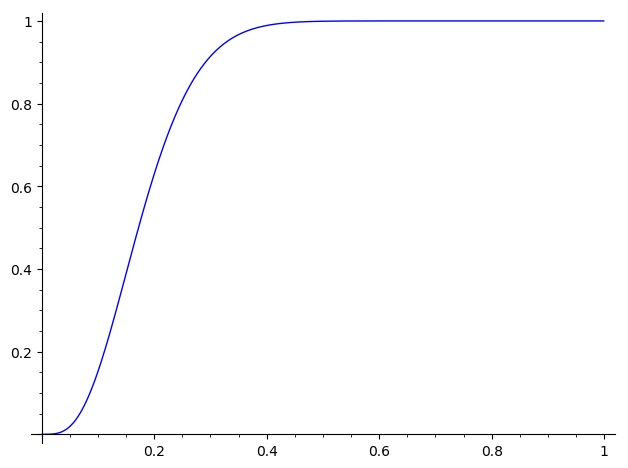
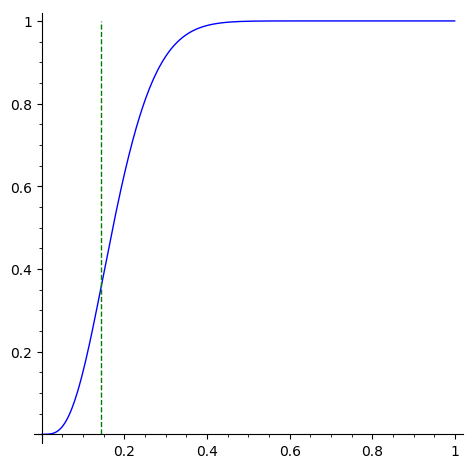
plot ups

diff --git a/docs/ml/voting-ensemble.html b/docs/ml/voting-ensemble.html
@@ -1,7 +1,7 @@
 <!DOCTYPE html>
 <html lang="en">
 <head>
-<!-- 2018-02-08 Thu 22:26 -->
+<!-- 2018-02-08 Thu 22:44 -->
 <meta charset="utf-8">
 <meta name="viewport" content="width=device-width, initial-scale=1">
 <title>Voting Ensemble</title>
@@ -305,7 +305,7 @@ for the JavaScript code in this tag.
 
 <div class='page-header'>
   <div class='page-meta small'>
-    Last modified:  2018-02-08 Thu 22:25
+    Last modified:  2018-02-08 Thu 22:44
   </div>
   <h1>Voting Ensemble</h1>
 </div>
@@ -328,17 +328,18 @@ This is a test notebook for trying out sagemath features
 
 <p>
 For binary classification, if there are \(n\) component models and the rate of
-success of each model is \(q\), then the rate of success of a <i>majority voting
+success of each model is \(p\), then the rate of success of a <i>majority voting
 ensemble</i> can be given using the binomial distribution.
 </p>
 
 <p>
-For a simple case of \(n = 21\) and \(q = 0.5\), this means that the ensemble
+For a simple case of \(n = 21\) and \(p = 0.5\), this means that the ensemble
 success is given by:
 </p>
 
 <div class="org-src-container">
-<pre class="src src-sage"><span style="color: #D08770;">sum</span><span style="color: #5E81AC;">(</span>binom_pmf<span style="color: #BF616A;">(</span><span style="color: #9c91e4; font-weight: bold;">0</span>.<span style="color: #9c91e4; font-weight: bold;">5</span><span style="color: #BF616A;">)</span>.subs<span style="color: #BF616A;">(</span>n == <span style="color: #9c91e4; font-weight: bold;">21</span><span style="color: #BF616A;">)</span>, m, <span style="color: #9c91e4; font-weight: bold;">11</span>, <span style="color: #9c91e4; font-weight: bold;">21</span><span style="color: #5E81AC;">)</span>
+<pre class="src src-sage"><span style="color: #EBCB8B;">n</span> = <span style="color: #9c91e4; font-weight: bold;">21</span>; <span style="color: #EBCB8B;">c</span> = <span style="color: #9c91e4; font-weight: bold;">2</span>
+<span style="color: #D08770;">sum</span><span style="color: #5E81AC;">(</span>binom_pmf<span style="color: #BF616A;">(</span><span style="color: #9c91e4; font-weight: bold;">0</span>.<span style="color: #9c91e4; font-weight: bold;">5</span><span style="color: #BF616A;">)</span>.subs<span style="color: #BF616A;">(</span>N == n<span style="color: #BF616A;">)</span>, M, floor<span style="color: #BF616A;">(</span>n/c<span style="color: #BF616A;">)</span> + <span style="color: #9c91e4; font-weight: bold;">1</span>, n<span style="color: #5E81AC;">)</span>
 </pre>
 </div>
 
@@ -348,12 +349,13 @@ success is given by:
 </pre>
 
 <p>
-Notice that \(m\) is summed from 11 to 21 which is the zone of majority. A plot of
-varying \(q\) values follows:
+Notice that \(M\) is summed from 11 to 21 which is the zone of majority. A plot of
+varying \(p\) values follows:
 </p>
 
 <div class="org-src-container">
-<pre class="src src-sage">plot<span style="color: #5E81AC;">(</span><span style="color: #D08770;">sum</span><span style="color: #BF616A;">(</span>binom_pmf<span style="color: #B48EAD;">(</span>q<span style="color: #B48EAD;">)</span>.subs<span style="color: #B48EAD;">(</span>n = <span style="color: #9c91e4; font-weight: bold;">21</span><span style="color: #B48EAD;">)</span>, m, <span style="color: #9c91e4; font-weight: bold;">11</span>, <span style="color: #9c91e4; font-weight: bold;">21</span><span style="color: #BF616A;">)</span>, <span style="color: #BF616A;">(</span>q, <span style="color: #9c91e4; font-weight: bold;">0</span>.<span style="color: #9c91e4; font-weight: bold;">001</span>, <span style="color: #9c91e4; font-weight: bold;">0</span>.<span style="color: #9c91e4; font-weight: bold;">999</span><span style="color: #BF616A;">)</span><span style="color: #5E81AC;">)</span>
+<pre class="src src-sage"><span style="color: #EBCB8B;">curve</span> = plot<span style="color: #5E81AC;">(</span><span style="color: #D08770;">sum</span><span style="color: #BF616A;">(</span>binom_pmf<span style="color: #B48EAD;">(</span>p<span style="color: #B48EAD;">)</span>.subs<span style="color: #B48EAD;">(</span>N = n<span style="color: #B48EAD;">)</span>, M, floor<span style="color: #B48EAD;">(</span>n/c<span style="color: #B48EAD;">)</span> + <span style="color: #9c91e4; font-weight: bold;">1</span>, n<span style="color: #BF616A;">)</span>, <span style="color: #BF616A;">(</span>p, <span style="color: #9c91e4; font-weight: bold;">0</span>.<span style="color: #9c91e4; font-weight: bold;">001</span>, <span style="color: #9c91e4; font-weight: bold;">0</span>.<span style="color: #9c91e4; font-weight: bold;">999</span><span style="color: #BF616A;">)</span><span style="color: #5E81AC;">)</span>
+curve + parametric_plot<span style="color: #5E81AC;">(</span><span style="color: #BF616A;">(</span><span style="color: #9c91e4; font-weight: bold;">1</span>/c, x<span style="color: #BF616A;">)</span>, <span style="color: #BF616A;">(</span>x, <span style="color: #9c91e4; font-weight: bold;">0</span>, <span style="color: #9c91e4; font-weight: bold;">1</span><span style="color: #BF616A;">)</span>, linestyle=<span style="color: #A3BE8C;">"--"</span>, color=<span style="color: #A3BE8C;">"green"</span><span style="color: #5E81AC;">)</span>
 </pre>
 </div>
 
@@ -380,7 +382,8 @@ Meaning the success rate for the ensemble would be:
 </p>
 
 <div class="org-src-container">
-<pre class="src src-sage"><span style="color: #D08770;">float</span><span style="color: #5E81AC;">(</span><span style="color: #D08770;">sum</span><span style="color: #BF616A;">(</span>binom_pmf<span style="color: #B48EAD;">(</span><span style="color: #9c91e4; font-weight: bold;">1</span>/<span style="color: #9c91e4; font-weight: bold;">3</span><span style="color: #B48EAD;">)</span>.subs<span style="color: #B48EAD;">(</span>n == <span style="color: #9c91e4; font-weight: bold;">21</span><span style="color: #B48EAD;">)</span>, m, <span style="color: #9c91e4; font-weight: bold;">8</span>, <span style="color: #9c91e4; font-weight: bold;">21</span><span style="color: #BF616A;">)</span><span style="color: #5E81AC;">)</span>
+<pre class="src src-sage"><span style="color: #EBCB8B;">c</span> = <span style="color: #9c91e4; font-weight: bold;">3</span>
+<span style="color: #D08770;">float</span><span style="color: #5E81AC;">(</span><span style="color: #D08770;">sum</span><span style="color: #BF616A;">(</span>binom_pmf<span style="color: #B48EAD;">(</span><span style="color: #9c91e4; font-weight: bold;">1</span>/c<span style="color: #B48EAD;">)</span>.subs<span style="color: #B48EAD;">(</span>N == n<span style="color: #B48EAD;">)</span>, M, floor<span style="color: #B48EAD;">(</span>n/c<span style="color: #B48EAD;">)</span> + <span style="color: #9c91e4; font-weight: bold;">1</span>, n<span style="color: #BF616A;">)</span><span style="color: #5E81AC;">)</span>
 </pre>
 </div>
 
@@ -398,7 +401,8 @@ For 7 classes:
 </p>
 
 <div class="org-src-container">
-<pre class="src src-sage"><span style="color: #D08770;">float</span><span style="color: #5E81AC;">(</span><span style="color: #D08770;">sum</span><span style="color: #BF616A;">(</span>binom_pmf<span style="color: #B48EAD;">(</span><span style="color: #9c91e4; font-weight: bold;">1</span>/<span style="color: #9c91e4; font-weight: bold;">7</span><span style="color: #B48EAD;">)</span>.subs<span style="color: #B48EAD;">(</span>n == <span style="color: #9c91e4; font-weight: bold;">21</span><span style="color: #B48EAD;">)</span>, m, <span style="color: #9c91e4; font-weight: bold;">4</span>, <span style="color: #9c91e4; font-weight: bold;">21</span><span style="color: #BF616A;">)</span><span style="color: #5E81AC;">)</span>
+<pre class="src src-sage"><span style="color: #EBCB8B;">c</span> = <span style="color: #9c91e4; font-weight: bold;">7</span>
+<span style="color: #D08770;">float</span><span style="color: #5E81AC;">(</span><span style="color: #D08770;">sum</span><span style="color: #BF616A;">(</span>binom_pmf<span style="color: #B48EAD;">(</span><span style="color: #9c91e4; font-weight: bold;">1</span>/c<span style="color: #B48EAD;">)</span>.subs<span style="color: #B48EAD;">(</span>N == n<span style="color: #B48EAD;">)</span>, M, floor<span style="color: #B48EAD;">(</span>n/c<span style="color: #B48EAD;">)</span> + <span style="color: #9c91e4; font-weight: bold;">1</span>, n<span style="color: #BF616A;">)</span><span style="color: #5E81AC;">)</span>
 </pre>
 </div>
 
@@ -412,7 +416,8 @@ A plot of \(q\) vs ensemble success for 7 classes follows:
 </p>
 
 <div class="org-src-container">
-<pre class="src src-sage">plot<span style="color: #5E81AC;">(</span><span style="color: #D08770;">sum</span><span style="color: #BF616A;">(</span>binom_pmf<span style="color: #B48EAD;">(</span>q<span style="color: #B48EAD;">)</span>.subs<span style="color: #B48EAD;">(</span>n == <span style="color: #9c91e4; font-weight: bold;">21</span><span style="color: #B48EAD;">)</span>, m, <span style="color: #9c91e4; font-weight: bold;">4</span>, <span style="color: #9c91e4; font-weight: bold;">21</span><span style="color: #BF616A;">)</span>, <span style="color: #BF616A;">(</span>q, <span style="color: #9c91e4; font-weight: bold;">0</span>.<span style="color: #9c91e4; font-weight: bold;">001</span>, <span style="color: #9c91e4; font-weight: bold;">0</span>.<span style="color: #9c91e4; font-weight: bold;">999</span><span style="color: #BF616A;">)</span><span style="color: #5E81AC;">)</span>
+<pre class="src src-sage"><span style="color: #EBCB8B;">curve</span> = plot<span style="color: #5E81AC;">(</span><span style="color: #D08770;">sum</span><span style="color: #BF616A;">(</span>binom_pmf<span style="color: #B48EAD;">(</span>p<span style="color: #B48EAD;">)</span>.subs<span style="color: #B48EAD;">(</span>N == n<span style="color: #B48EAD;">)</span>, M, floor<span style="color: #B48EAD;">(</span>n/c<span style="color: #B48EAD;">)</span> + <span style="color: #9c91e4; font-weight: bold;">1</span>, n<span style="color: #BF616A;">)</span>, <span style="color: #BF616A;">(</span>p, <span style="color: #9c91e4; font-weight: bold;">0</span>.<span style="color: #9c91e4; font-weight: bold;">001</span>, <span style="color: #9c91e4; font-weight: bold;">0</span>.<span style="color: #9c91e4; font-weight: bold;">999</span><span style="color: #BF616A;">)</span><span style="color: #5E81AC;">)</span>
+curve + parametric_plot<span style="color: #5E81AC;">(</span><span style="color: #BF616A;">(</span><span style="color: #9c91e4; font-weight: bold;">1</span>/c, x<span style="color: #BF616A;">)</span>, <span style="color: #BF616A;">(</span>x, <span style="color: #9c91e4; font-weight: bold;">0</span>, <span style="color: #9c91e4; font-weight: bold;">1</span><span style="color: #BF616A;">)</span>, linestyle=<span style="color: #A3BE8C;">"--"</span>, color=<span style="color: #A3BE8C;">"green"</span><span style="color: #5E81AC;">)</span>
 </pre>
 </div>
 
@@ -430,21 +435,21 @@ A plot of \(q\) vs ensemble success for 7 classes follows:
 <p>
 So you don't need to be a above the \(1/c\) threshold in accuracy to gain using a
 voting ensemble. This means, even a <i>poorer</i> than random classifier will gain
-here. In general, any \(q\) that makes the following true will be good:
+here. In general, any \(p\) that makes the following true will be good:
 </p>
 
 <div class="org-src-container">
-<pre class="src src-sage"><span style="color: #D08770;">sum</span><span style="color: #5E81AC;">(</span>binom_pmf<span style="color: #BF616A;">(</span>q<span style="color: #BF616A;">)</span>, m, floor<span style="color: #BF616A;">(</span>n/c + <span style="color: #9c91e4; font-weight: bold;">1</span><span style="color: #BF616A;">)</span>, n<span style="color: #5E81AC;">)</span> &gt; <span style="color: #9c91e4; font-weight: bold;">1</span>/c
+<pre class="src src-sage"><span style="color: #D08770;">sum</span><span style="color: #5E81AC;">(</span>binom_pmf<span style="color: #BF616A;">(</span>p<span style="color: #BF616A;">)</span>, M, floor<span style="color: #BF616A;">(</span>N/c + <span style="color: #9c91e4; font-weight: bold;">1</span><span style="color: #BF616A;">)</span>, N<span style="color: #5E81AC;">)</span> &gt; <span style="color: #9c91e4; font-weight: bold;">1</span>/c
 </pre>
 </div>
 
 <pre class="example">
-sum(q^m*(-q + 1)^(-m + n)*binomial(n, m), m, floor(n/c) + 1, n) &gt; (1/c)
+sum(p^M*(-p + 1)^(-M + N)*binomial(N, M), M, floor(1/7*N) + 1, N) &gt; (1/7)
 
 </pre>
 
 <p>
-Slight increase in \(q\) around this critical value help a lot (as seen from the
+Slight increase in \(p\) around this critical value help a lot (as seen from the
 curves).
 </p>
 </div>

diff --git a/docs/sitemap.html b/docs/sitemap.html
@@ -1,7 +1,7 @@
 <!DOCTYPE html>
 <html lang="en">
 <head>
-<!-- 2018-02-08 Thu 22:27 -->
+<!-- 2018-02-08 Thu 22:44 -->
 <meta charset="utf-8">
 <meta name="viewport" content="width=device-width, initial-scale=1">
 <title>Sitemap</title>
@@ -245,7 +245,7 @@ for the JavaScript code in this tag.
 
 <div class='page-header'>
   <div class='page-meta small'>
-    Last modified:  2018-02-08 Thu 22:27
+    Last modified:  2018-02-08 Thu 22:44
   </div>
   <h1>Sitemap</h1>
 </div>

diff --git a/docs/allpages.html b/docs/allpages.html
@@ -1,7 +1,7 @@
 <!DOCTYPE html>
 <html lang="en">
 <head>
-<!-- 2018-02-08 Thu 22:27 -->
+<!-- 2018-02-08 Thu 22:44 -->
 <meta charset="utf-8">
 <meta name="viewport" content="width=device-width, initial-scale=1">
 <title>All the pages</title>
